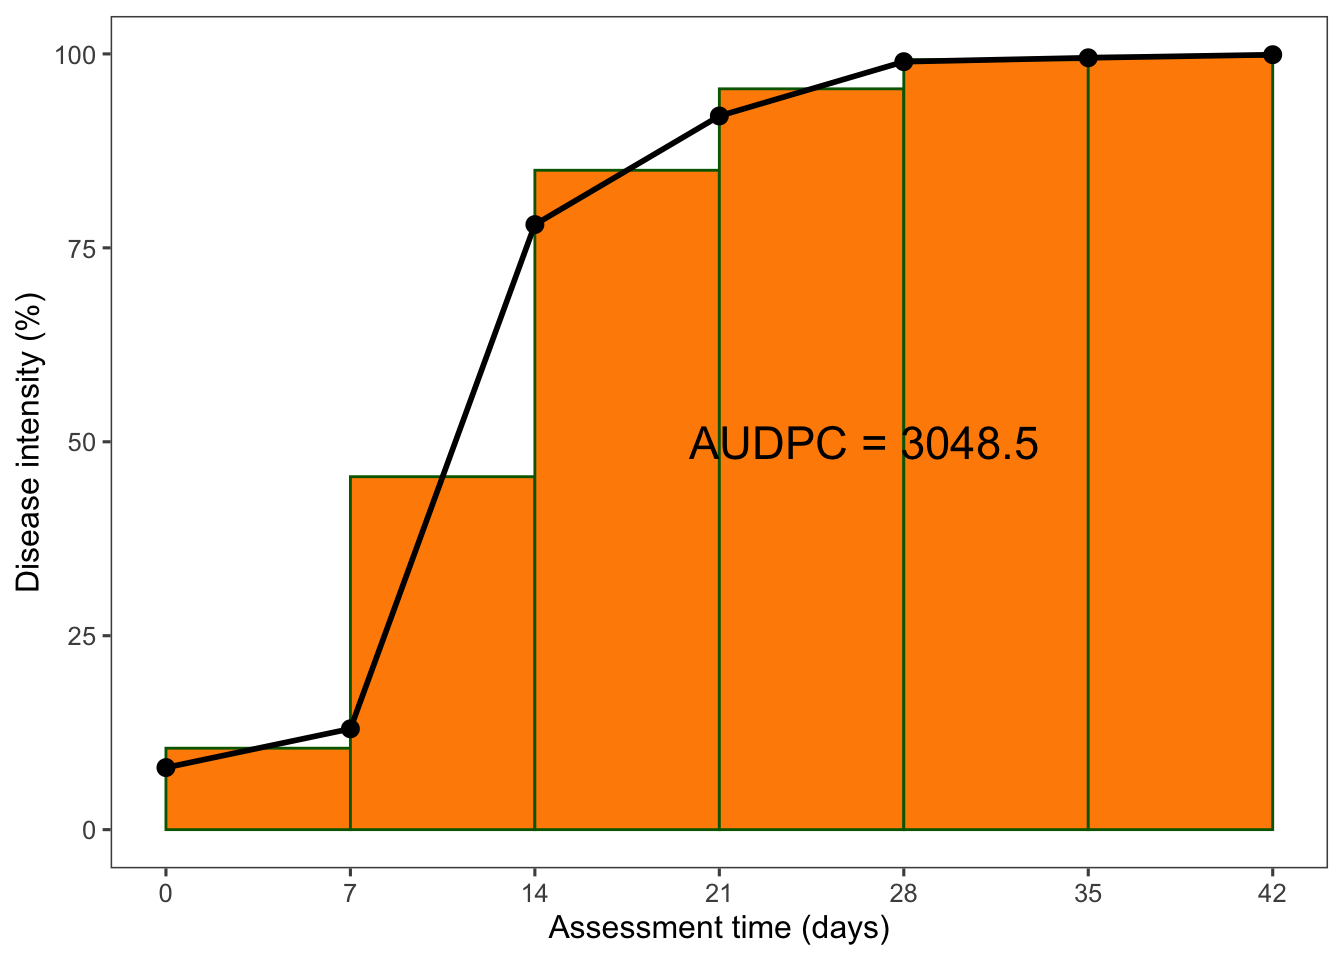
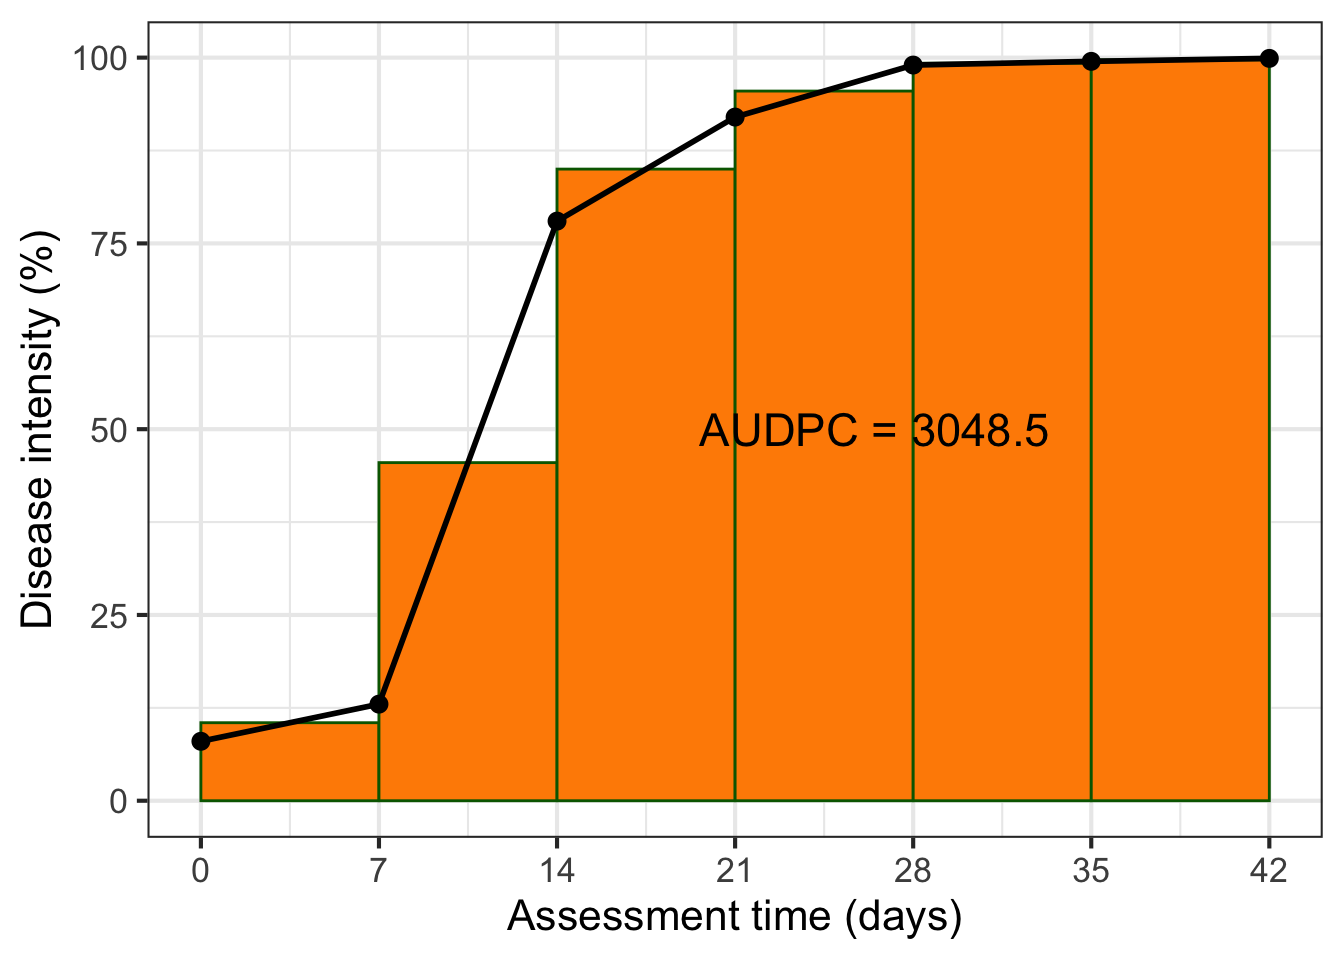
standard ggplot2 theme

diff --git a/_book/temporal-dpc.html b/_book/temporal-dpc.html
@@ -391,11 +391,9 @@ gtag('config', 'G-5T7SZYQV79', { 'anonymize_ip': true});
 <span id="cb4-6"><a href="#cb4-6" aria-hidden="true" tabindex="-1"></a>    <span class="fu">geom_area</span>(<span class="at">fill =</span> <span class="st">"darkorange"</span>)<span class="sc">+</span></span>
 <span id="cb4-7"><a href="#cb4-7" aria-hidden="true" tabindex="-1"></a>    <span class="fu">geom_line</span>(<span class="at">size =</span> <span class="dv">1</span>)<span class="sc">+</span></span>
 <span id="cb4-8"><a href="#cb4-8" aria-hidden="true" tabindex="-1"></a>  <span class="fu">geom_point</span>(<span class="at">size =</span> <span class="dv">3</span>, <span class="at">shape =</span> <span class="dv">16</span>)<span class="sc">+</span></span>
-<span id="cb4-9"><a href="#cb4-9" aria-hidden="true" tabindex="-1"></a>  <span class="fu">theme_few</span>()<span class="sc">+</span></span>
-<span id="cb4-10"><a href="#cb4-10" aria-hidden="true" tabindex="-1"></a>  </span>
-<span id="cb4-11"><a href="#cb4-11" aria-hidden="true" tabindex="-1"></a>  <span class="fu">scale_x_continuous</span>(<span class="at">breaks =</span> <span class="fu">c</span>(<span class="dv">0</span>, <span class="dv">7</span>, <span class="dv">14</span>, <span class="dv">21</span>, <span class="dv">28</span>, <span class="dv">35</span>, <span class="dv">42</span>))</span>
-<span id="cb4-12"><a href="#cb4-12" aria-hidden="true" tabindex="-1"></a></span>
-<span id="cb4-13"><a href="#cb4-13" aria-hidden="true" tabindex="-1"></a>dpc1</span></code><button title="Copy to Clipboard" class="code-copy-button"><i class="bi"></i></button></pre></div>
+<span id="cb4-9"><a href="#cb4-9" aria-hidden="true" tabindex="-1"></a>  <span class="fu">scale_x_continuous</span>(<span class="at">breaks =</span> <span class="fu">c</span>(<span class="dv">0</span>, <span class="dv">7</span>, <span class="dv">14</span>, <span class="dv">21</span>, <span class="dv">28</span>, <span class="dv">35</span>, <span class="dv">42</span>))</span>
+<span id="cb4-10"><a href="#cb4-10" aria-hidden="true" tabindex="-1"></a></span>
+<span id="cb4-11"><a href="#cb4-11" aria-hidden="true" tabindex="-1"></a>dpc1</span></code><button title="Copy to Clipboard" class="code-copy-button"><i class="bi"></i></button></pre></div>
 <div class="cell-output-display">
 <p><img src="temporal-dpc_files/figure-html/unnamed-chunk-8-1.png" class="img-fluid" width="672"></p>
 </div>
@@ -427,9 +425,8 @@ gtag('config', 'G-5T7SZYQV79', { 'anonymize_ip': true});
 <span id="cb5-24"><a href="#cb5-24" aria-hidden="true" tabindex="-1"></a>  <span class="fu">geom_point</span>(<span class="at">size =</span> <span class="dv">3</span>, <span class="at">shape =</span> <span class="dv">16</span>)<span class="sc">+</span></span>
 <span id="cb5-25"><a href="#cb5-25" aria-hidden="true" tabindex="-1"></a>  <span class="fu">annotate</span>(<span class="at">geom =</span> <span class="st">"text"</span>, <span class="at">x =</span> <span class="fl">26.5</span>, <span class="at">y =</span> <span class="dv">50</span>,</span>
 <span id="cb5-26"><a href="#cb5-26" aria-hidden="true" tabindex="-1"></a>           <span class="at">label =</span> <span class="st">"AUDPC = 3048.5"</span>, <span class="at">size =</span> <span class="dv">6</span>)<span class="sc">+</span></span>
-<span id="cb5-27"><a href="#cb5-27" aria-hidden="true" tabindex="-1"></a>  <span class="fu">theme_few</span>()<span class="sc">+</span></span>
-<span id="cb5-28"><a href="#cb5-28" aria-hidden="true" tabindex="-1"></a>  <span class="fu">scale_x_continuous</span>(<span class="at">breaks =</span> <span class="fu">c</span>(<span class="dv">0</span>, <span class="dv">7</span>, <span class="dv">14</span>, <span class="dv">21</span>, <span class="dv">28</span>, <span class="dv">35</span>, <span class="dv">42</span>))</span>
-<span id="cb5-29"><a href="#cb5-29" aria-hidden="true" tabindex="-1"></a>dpc2</span></code><button title="Copy to Clipboard" class="code-copy-button"><i class="bi"></i></button></pre></div>
+<span id="cb5-27"><a href="#cb5-27" aria-hidden="true" tabindex="-1"></a>  <span class="fu">scale_x_continuous</span>(<span class="at">breaks =</span> <span class="fu">c</span>(<span class="dv">0</span>, <span class="dv">7</span>, <span class="dv">14</span>, <span class="dv">21</span>, <span class="dv">28</span>, <span class="dv">35</span>, <span class="dv">42</span>))</span>
+<span id="cb5-28"><a href="#cb5-28" aria-hidden="true" tabindex="-1"></a>dpc2</span></code><button title="Copy to Clipboard" class="code-copy-button"><i class="bi"></i></button></pre></div>
 <div class="cell-output-display">
 <p><img src="temporal-dpc_files/figure-html/unnamed-chunk-10-1.png" class="img-fluid" width="672"></p>
 </div>
